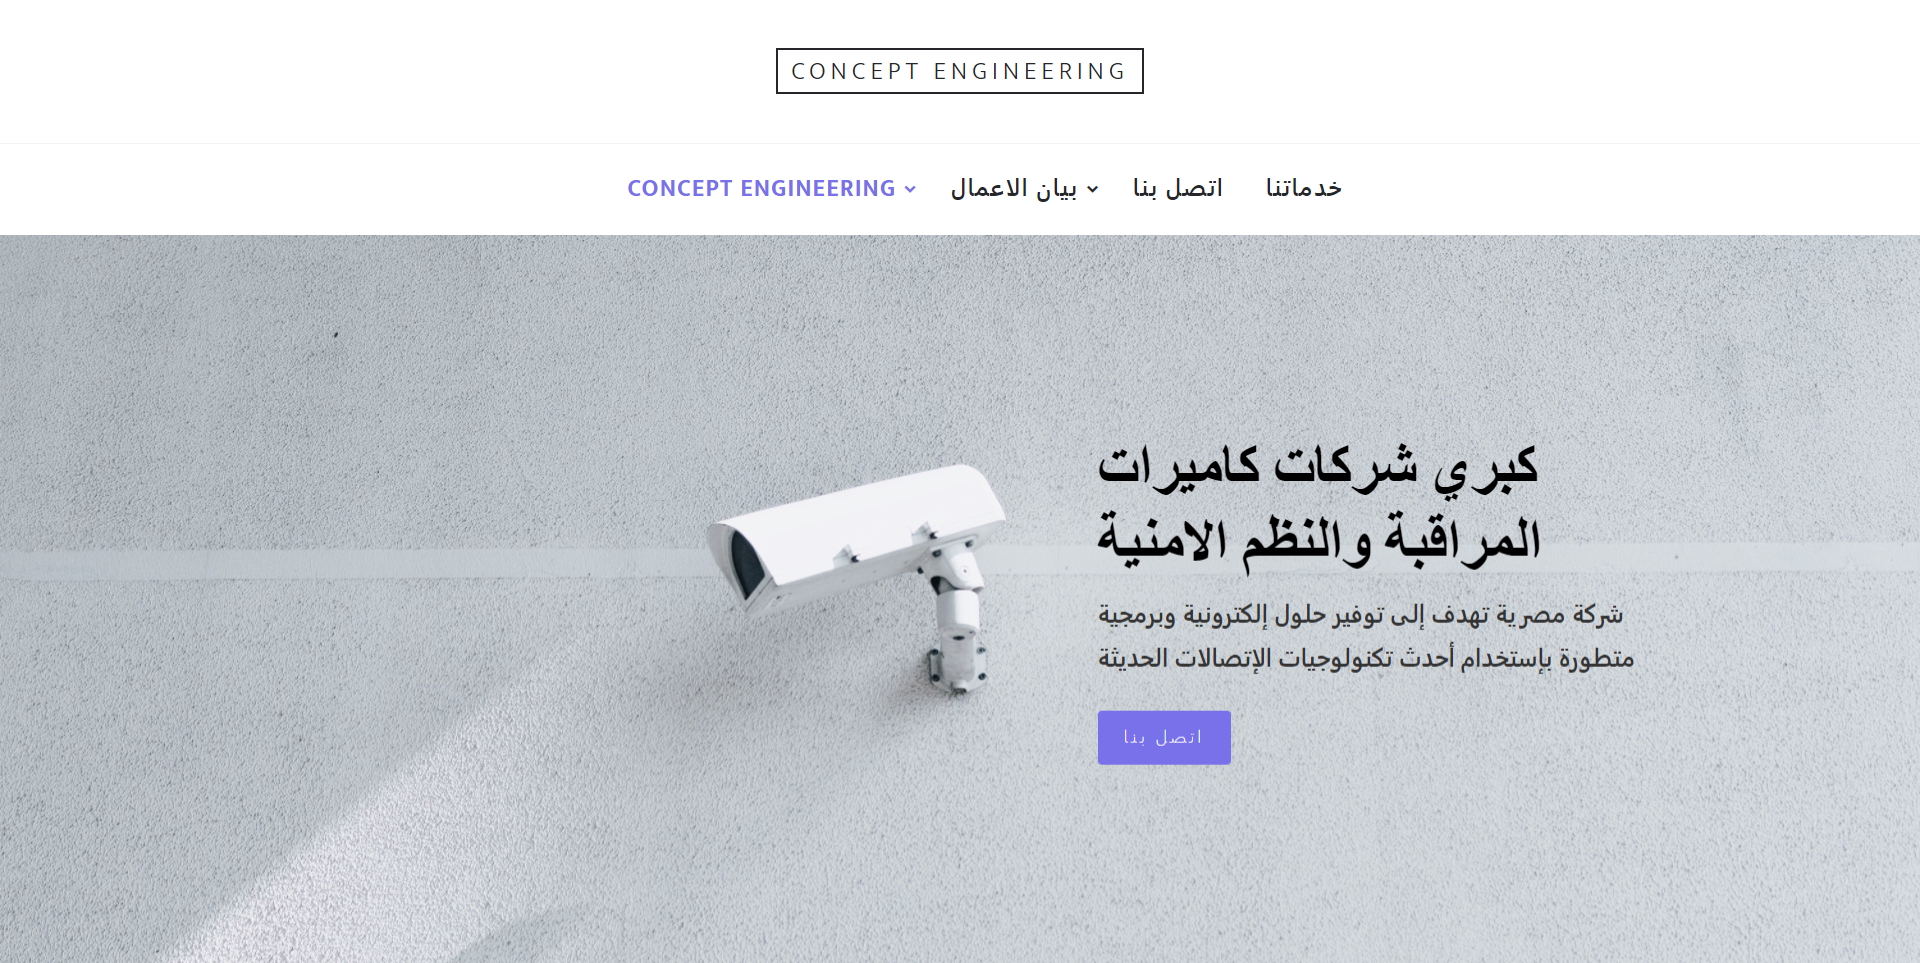
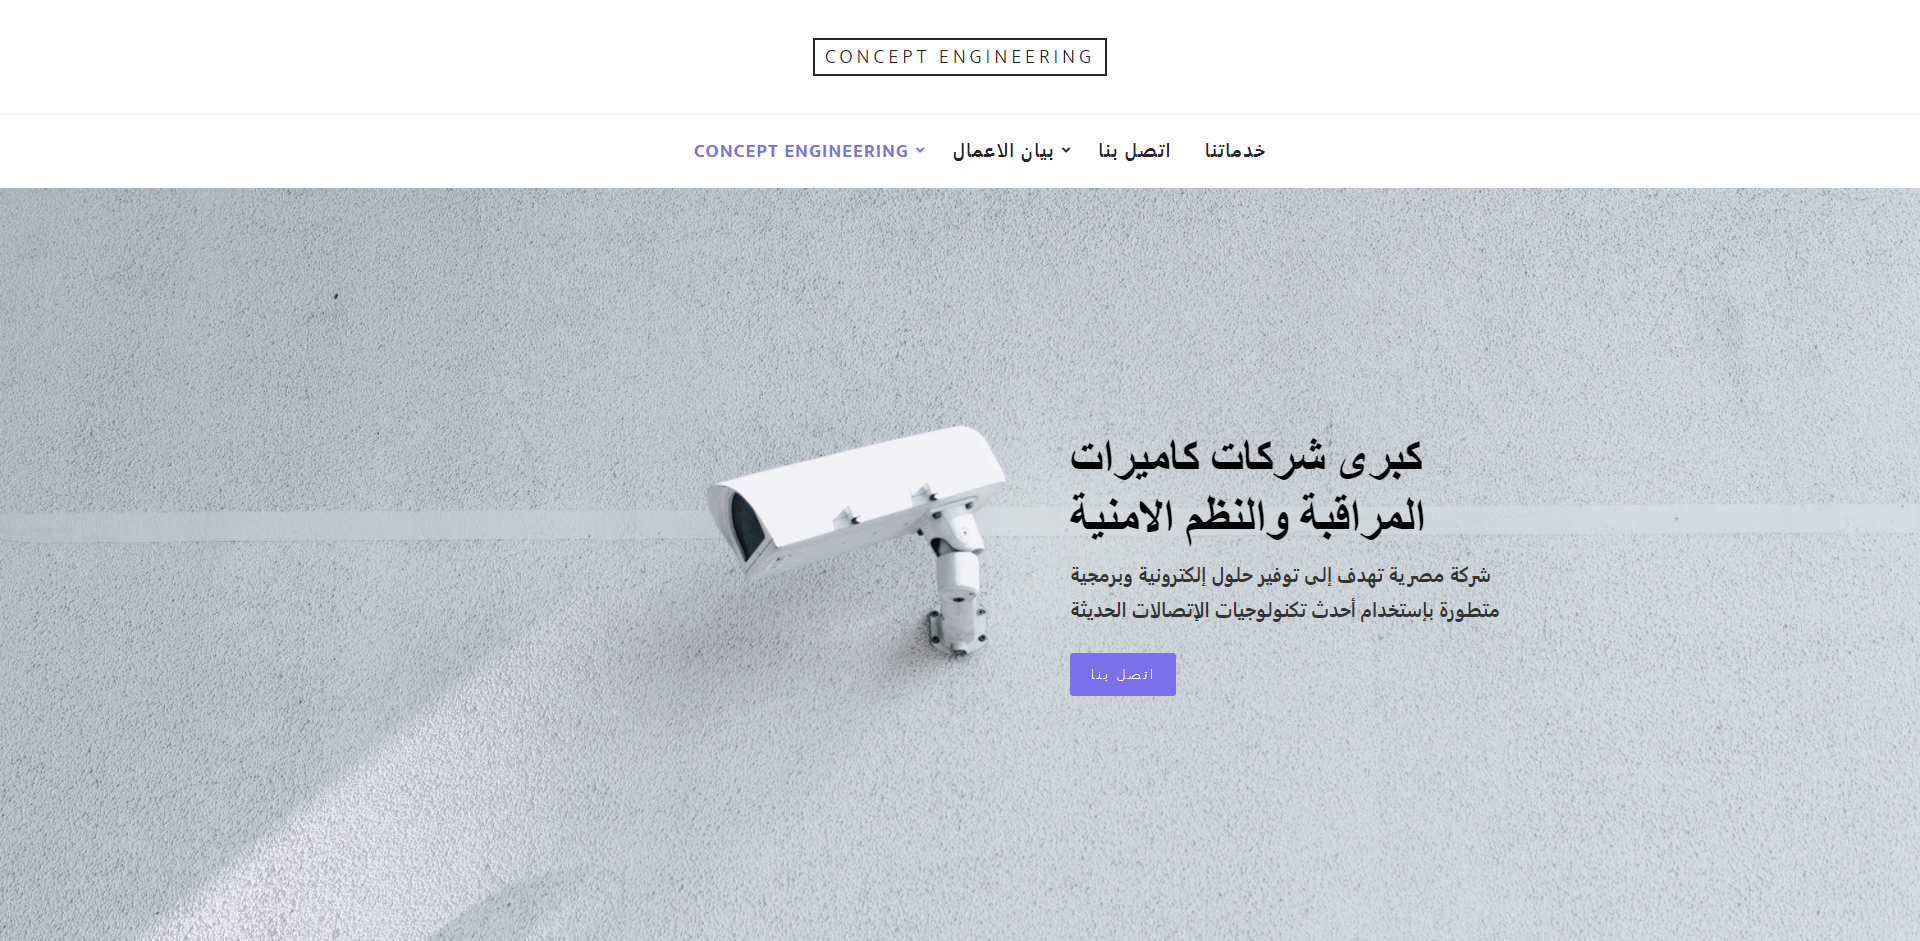
12-12-2021

diff --git a/index-en.html b/index-en.html
@@ -245,8 +245,8 @@
                                 <li class="active">Hosting free for the first year</li>
                                 <li class="active">30 GB SSD storage</li>
                                 <li class="active">Free SSL certificte</li>
-                                <li>Multilingual<br>(support more than one language)</li>
-                                <li>CMS<br>(contant management system)</li>
+                                <li>Multilingual<br>(support arabic and english languages)</li>
+                                <li>CMS<br>(content management system)</li>
                                 <li>Social media integeration</li>
                                 <li>Full SEO ready system</li>
                                 <li class="active">Technical support free for the first year</li>
@@ -268,8 +268,8 @@
                                 <li class="active">Hosting free for the first year</li>
                                 <li class="active">100 GB SSD storage</li>
                                 <li class="active">Free SSL certificte</li>
-                                <li class="active">Multilingual<br>(support more than one language)</li>
-                                <li class="active">CMS<br>(contant management system)</li>
+                                <li class="active">Multilingual<br>(support arabic and english languages)</li>
+                                <li class="active">CMS<br>(content management system)</li>
                                 <li class="active">Social media integeration</li>
                                 <li class="active">Full SEO ready system</li>
                                 <li class="active">Technical support free for the first year</li>
@@ -306,7 +306,7 @@
             <div class="row">
                 <div class="col-lg-12">
                     <div class="center-heading">
-                        <h2 class="section-title">What can we do</h2>
+                        <h2 class="section-title">What Can We Do</h2>
                     </div>
                 </div>
             </div>
@@ -320,7 +320,7 @@
                         </div>
                         <div class="portofolio-content">
                             <h3>
-                                <a href="#">Landing pages</a>
+                                <a href="#">Landing Pages</a>
                             </h3>
                         </div>
                     </div>
@@ -344,7 +344,7 @@
                         </div>
                         <div class="portofolio-content">
                             <h3>
-                                <a href="#">Mobile friendly websites</a>
+                                <a href="#">Mobile Friendly Websites</a>
                             </h3>
                         </div>
                     </div>
@@ -361,14 +361,14 @@
                 <div class="row">
                     <div class="col-lg-12">
                         <div class="center-heading">
-                            <h2 class="section-title">Our portfolio</h2>
+                            <h2 class="section-title">Our Portfolio</h2>
                         </div>
                     </div>
                 </div>
                 <!-- ***** Section Title End ***** -->
     
                 <div class="row">
-                    <div class="col-lg-4 col-md-6 col-sm-12" data-scroll-reveal="enter bottom move 50px over 0.6s after 0.6s">
+                    <div class="col-lg-6 col-md-6 col-sm-12" data-scroll-reveal="enter bottom move 50px over 0.6s after 0.6s">
                         <div class="previuos-image">
                             <div class="img">
                                 <img src="images/previuos-work/EGY.HOST/EGY.HOST-2.png" alt="" width="100%" height="100%">
@@ -383,7 +383,7 @@
                             </div>
                         </div>
                     </div>
-                    <div class="col-lg-4 col-md-6 col-sm-12" data-scroll-reveal="enter bottom move 50px over 0.6s after 0.4s">
+                    <div class="col-lg-6 col-md-6 col-sm-12" data-scroll-reveal="enter bottom move 50px over 0.6s after 0.4s">
                         <div class="previuos-image">
                             <div class="img">
                                 <img src="images/previuos-work/Concept/concept-1.png" alt="" width="100%" height="100%">
@@ -393,12 +393,12 @@
                             </div>
                             <div class="previuos-content">
                                 <h3>
-                                    <a href="assets/portofolio/en/project-2.html" target="_blank">Concept engineering</a>
+                                    <a href="assets/portofolio/en/project-2.html" target="_blank">Concept Engineering</a>
                                 </h3>
                             </div>
                         </div>
                     </div>
-                    <div class="col-lg-4 col-md-6 col-sm-12" data-scroll-reveal="enter bottom move 50px over 0.6s after 0.2s">
+                    <!-- <div class="col-lg-4 col-md-6 col-sm-12" data-scroll-reveal="enter bottom move 50px over 0.6s after 0.2s">
                         <div class="previuos-image">
                             <div class="img">
                                 <img src="images/previuos-work/AutoGo/Home Page-1.jpg" alt="" width="100%" height="100%">
@@ -412,7 +412,7 @@
                                 </h3>
                             </div>
                         </div>
-                    </div>
+                    </div> -->
                 </div>
     
                 
@@ -430,7 +430,7 @@
             <div class="row">
                 <div class="col-lg-12">
                     <div class="center-heading">
-                        <h2 class="section-title">Contact us</h2>
+                        <h2 class="section-title">Contact Us</h2>
                     </div>
                 </div>
             </div>

diff --git a/index.html b/index.html
@@ -371,7 +371,7 @@
                 <!-- ***** Section Title End ***** -->
     
                 <div class="row">
-                    <div class="col-lg-4 col-md-6 col-sm-12" data-scroll-reveal="enter bottom move 50px over 0.6s after 0.6s">
+                    <div class="col-lg-6 col-md-6 col-sm-12" data-scroll-reveal="enter bottom move 50px over 0.6s after 0.6s">
                         <div class="previuos-image">
                             <div class="img">
                                 <img src="images/previuos-work/EGY.HOST/EGY.HOST-2.png" alt="" width="100%" height="100%">
@@ -386,7 +386,7 @@
                             </div>
                         </div>
                     </div>
-                    <div class="col-lg-4 col-md-6 col-sm-12" data-scroll-reveal="enter bottom move 50px over 0.6s after 0.4s">
+                    <div class="col-lg-6 col-md-6 col-sm-12" data-scroll-reveal="enter bottom move 50px over 0.6s after 0.4s">
                         <div class="previuos-image">
                             <div class="img">
                                 <img src="images/previuos-work/Concept/concept-1.png" alt="" width="100%" height="100%">
@@ -401,7 +401,7 @@
                             </div>
                         </div>
                     </div>
-                    <div class="col-lg-4 col-md-6 col-sm-12" data-scroll-reveal="enter bottom move 50px over 0.6s after 0.2s">
+                    <!-- <div class="col-lg-4 col-md-6 col-sm-12" data-scroll-reveal="enter bottom move 50px over 0.6s after 0.2s">
                         <div class="previuos-image">
                             <div class="img">
                                 <img src="images/previuos-work/AutoGo/Home Page-1.jpg" alt="" width="100%" height="100%">
@@ -415,7 +415,7 @@
                                 </h3>
                             </div>
                         </div>
-                    </div>
+                    </div> -->
                 </div>
     
                 

diff --git a/assets/portofolio/ar/project-2.html b/assets/portofolio/ar/project-2.html
@@ -92,7 +92,7 @@
 
     <div class="gallery-heading text-center">
         <h1>Concept Enginnering</h1>
-        <p class="d-block mx-auto mt-3">كبري شركات كاميرات المراقبة والنظم الأمنية, تهدف إلى توفير حلول إلكترونية وبرمجية متطورة بإستخدام أحدث تكنولوجيات الإتصالات الحديثة</p>
+        <p class="d-block mx-auto mt-3">كبرى شركات كاميرات المراقبة والنظم الأمنية, تهدف إلى توفير حلول إلكترونية وبرمجية متطورة بإستخدام أحدث تكنولوجيات الإتصالات الحديثة</p>
         <!-- <button class="btn btn-outline-primary btn-lg mt-4">زيارة الموقع</button> -->
     </div>
 

diff --git a/assets/portofolio/en/project-2.html b/assets/portofolio/en/project-2.html
@@ -92,7 +92,7 @@
 
     <div class="gallery-heading text-center">
         <h1>Concept Enginnering</h1>
-        <p class="d-block mx-auto mt-3">Concept Engineering is one of the biggest companies in servillance and security systems.It aims to find a security solutions by using the most advanced technologies. </p>
+        <p class="d-block mx-auto mt-3">Concept Engineering is one of the biggest companies in servillance and security systems. It aims to find security solutions by using the most advanced technologies.</p>
         <!-- <button class="btn btn-outline-primary btn-lg mt-4">زيارة الموقع</button> -->
     </div>
 

diff --git a/assets/portofolio/en/project-1.html b/assets/portofolio/en/project-1.html
@@ -92,7 +92,7 @@
 
     <div class="gallery-heading text-center">
         <h1>EGY.HOST</h1>
-        <p class="d-block mx-auto mt-3">EGY.HOST is a leading company in web hosting whether shared ,dedicated or cloud hosting.</p>
+        <p class="d-block mx-auto mt-3">EGY.HOST is a leading company in web hosting, whether shared, dedicated, or cloud hosting.</p>
         <a href="../../../assets/egyhost/index.html" target="_blank" class="btn btn-outline-primary btn-lg mt-4">visit website</a>
     </div>
 

diff --git a/assets/portofolio/ar/project-3.html b/assets/portofolio/ar/project-3.html
@@ -116,10 +116,10 @@
                 <img src="../../../images/previuos-work/AutoGo/anywhere.jpg" class="d-block w-100" alt="...">
               </div>
             </div>
-
-
           </div>
+          
     </div>
+    <p class="text-center p-5">ملاحظة: هذا التصميم تخيلي تم عملة </p>
       
 
 
